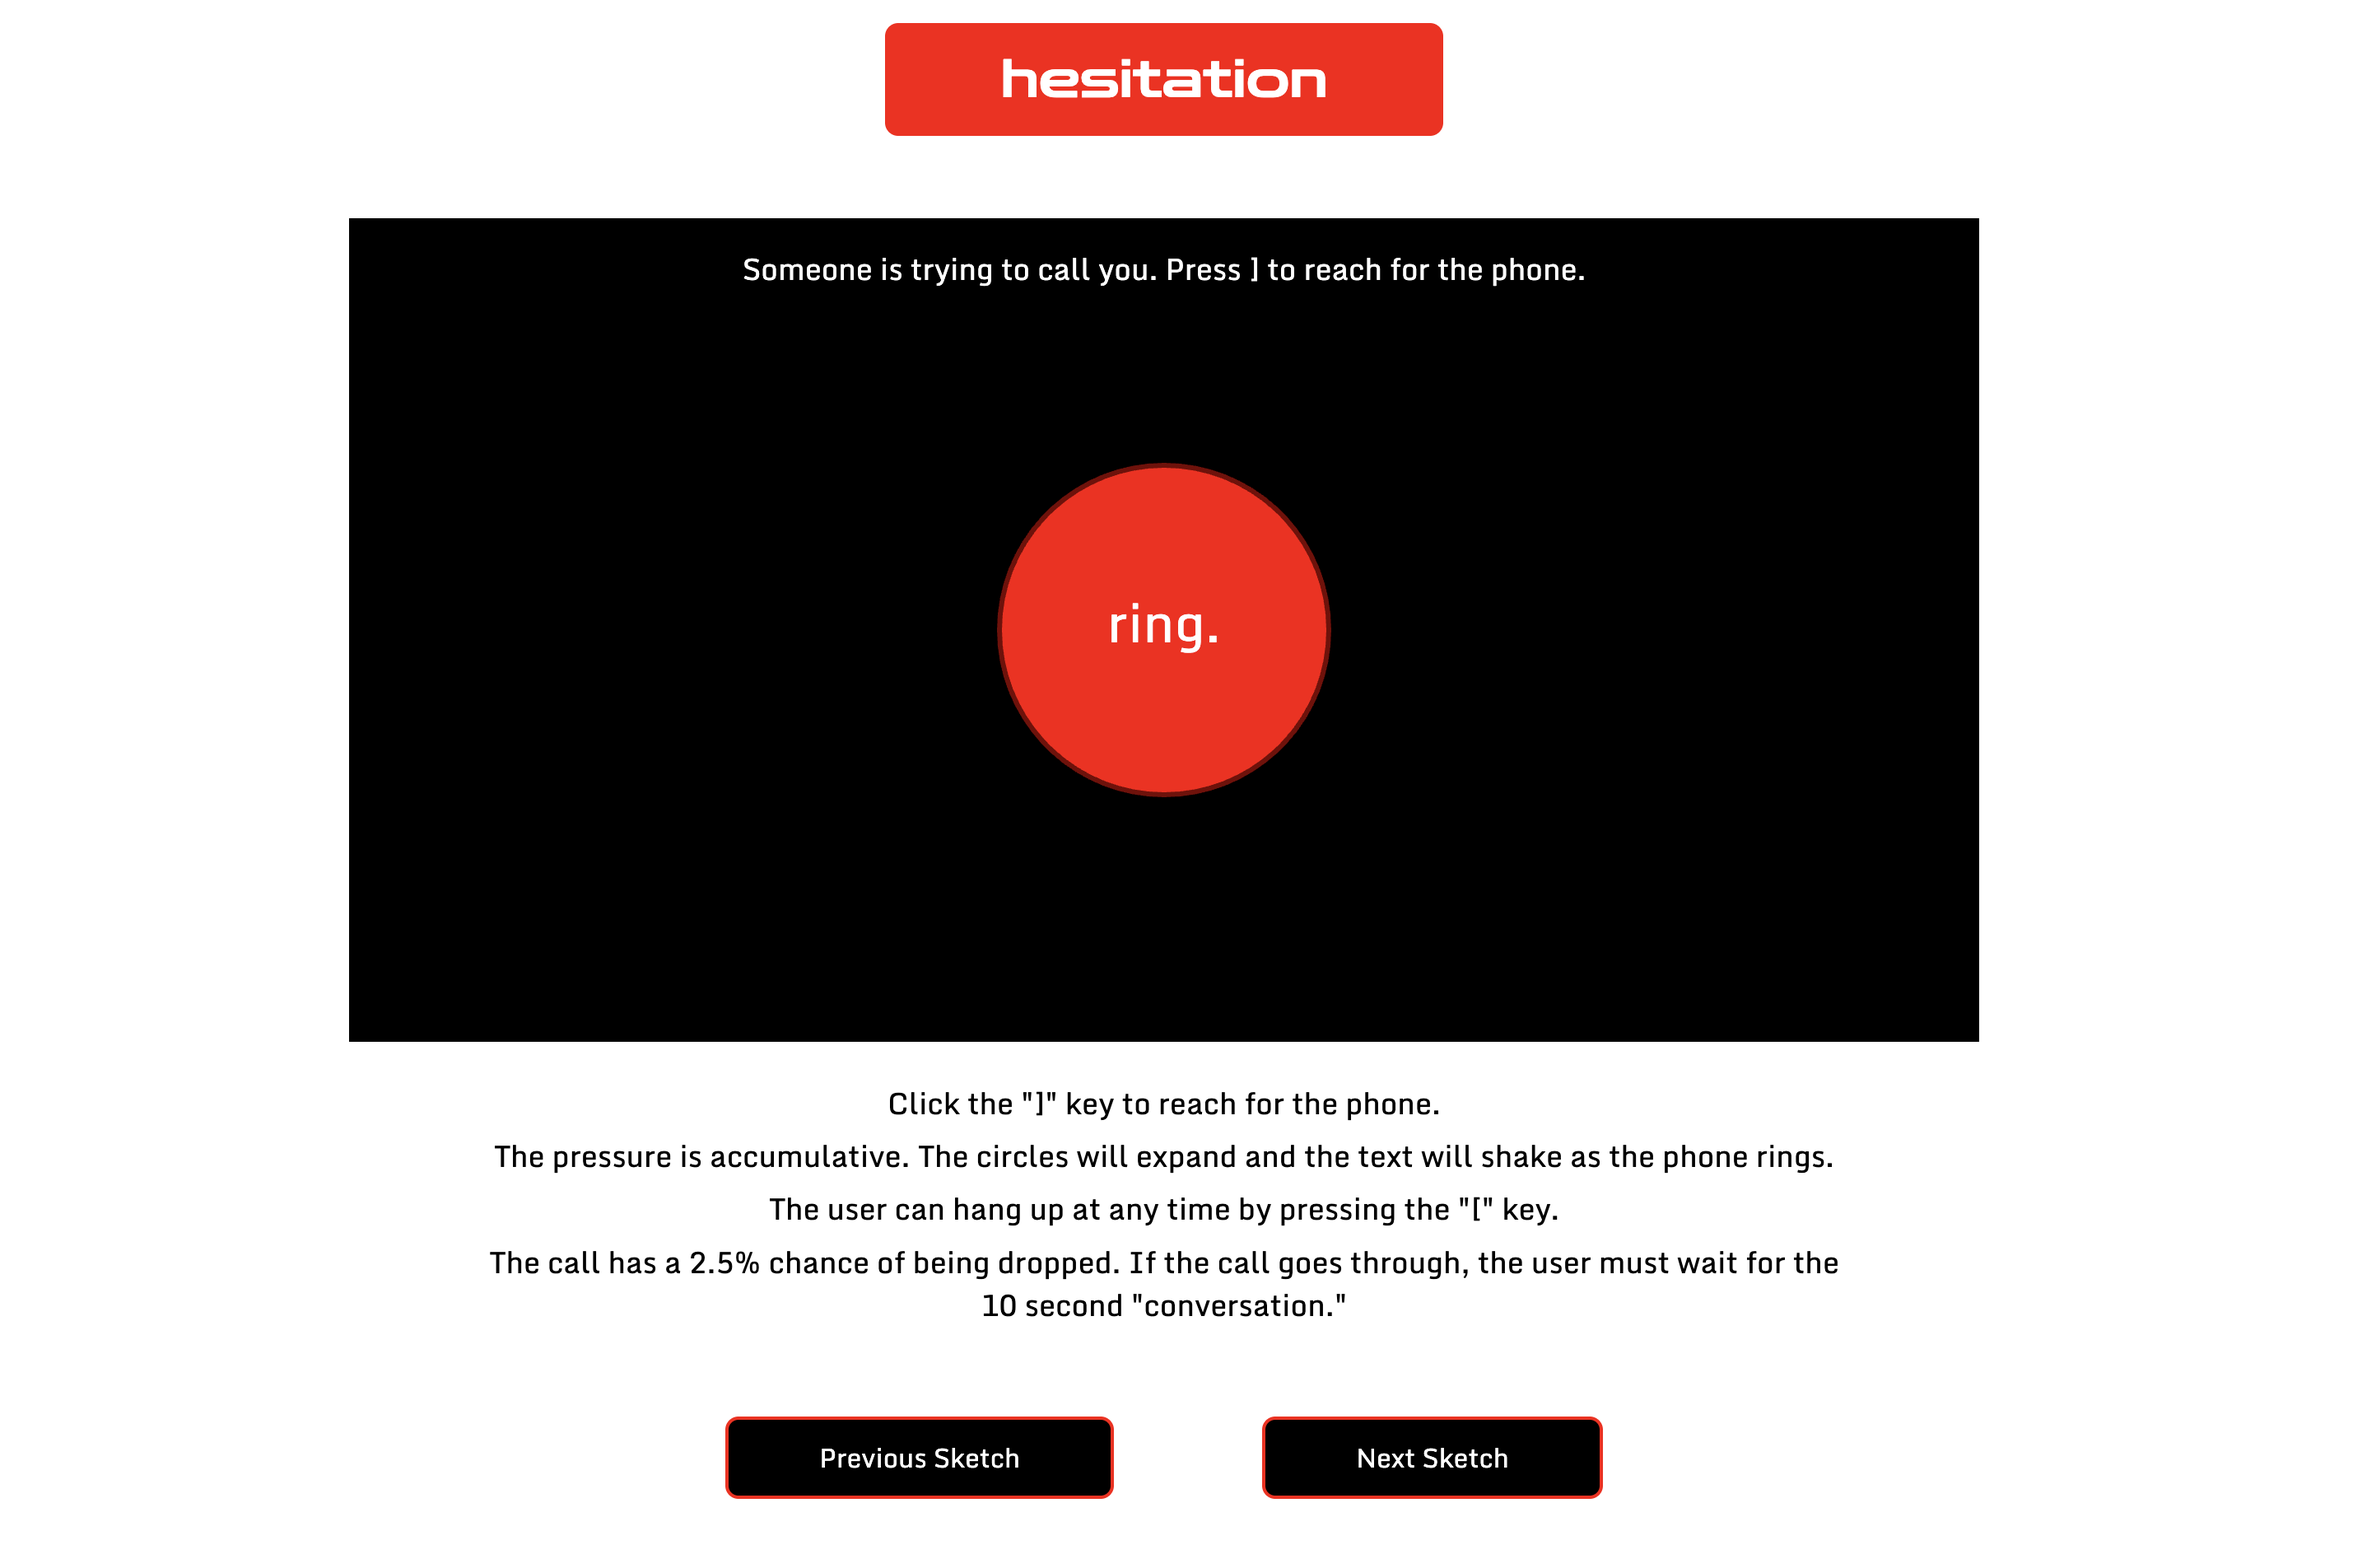
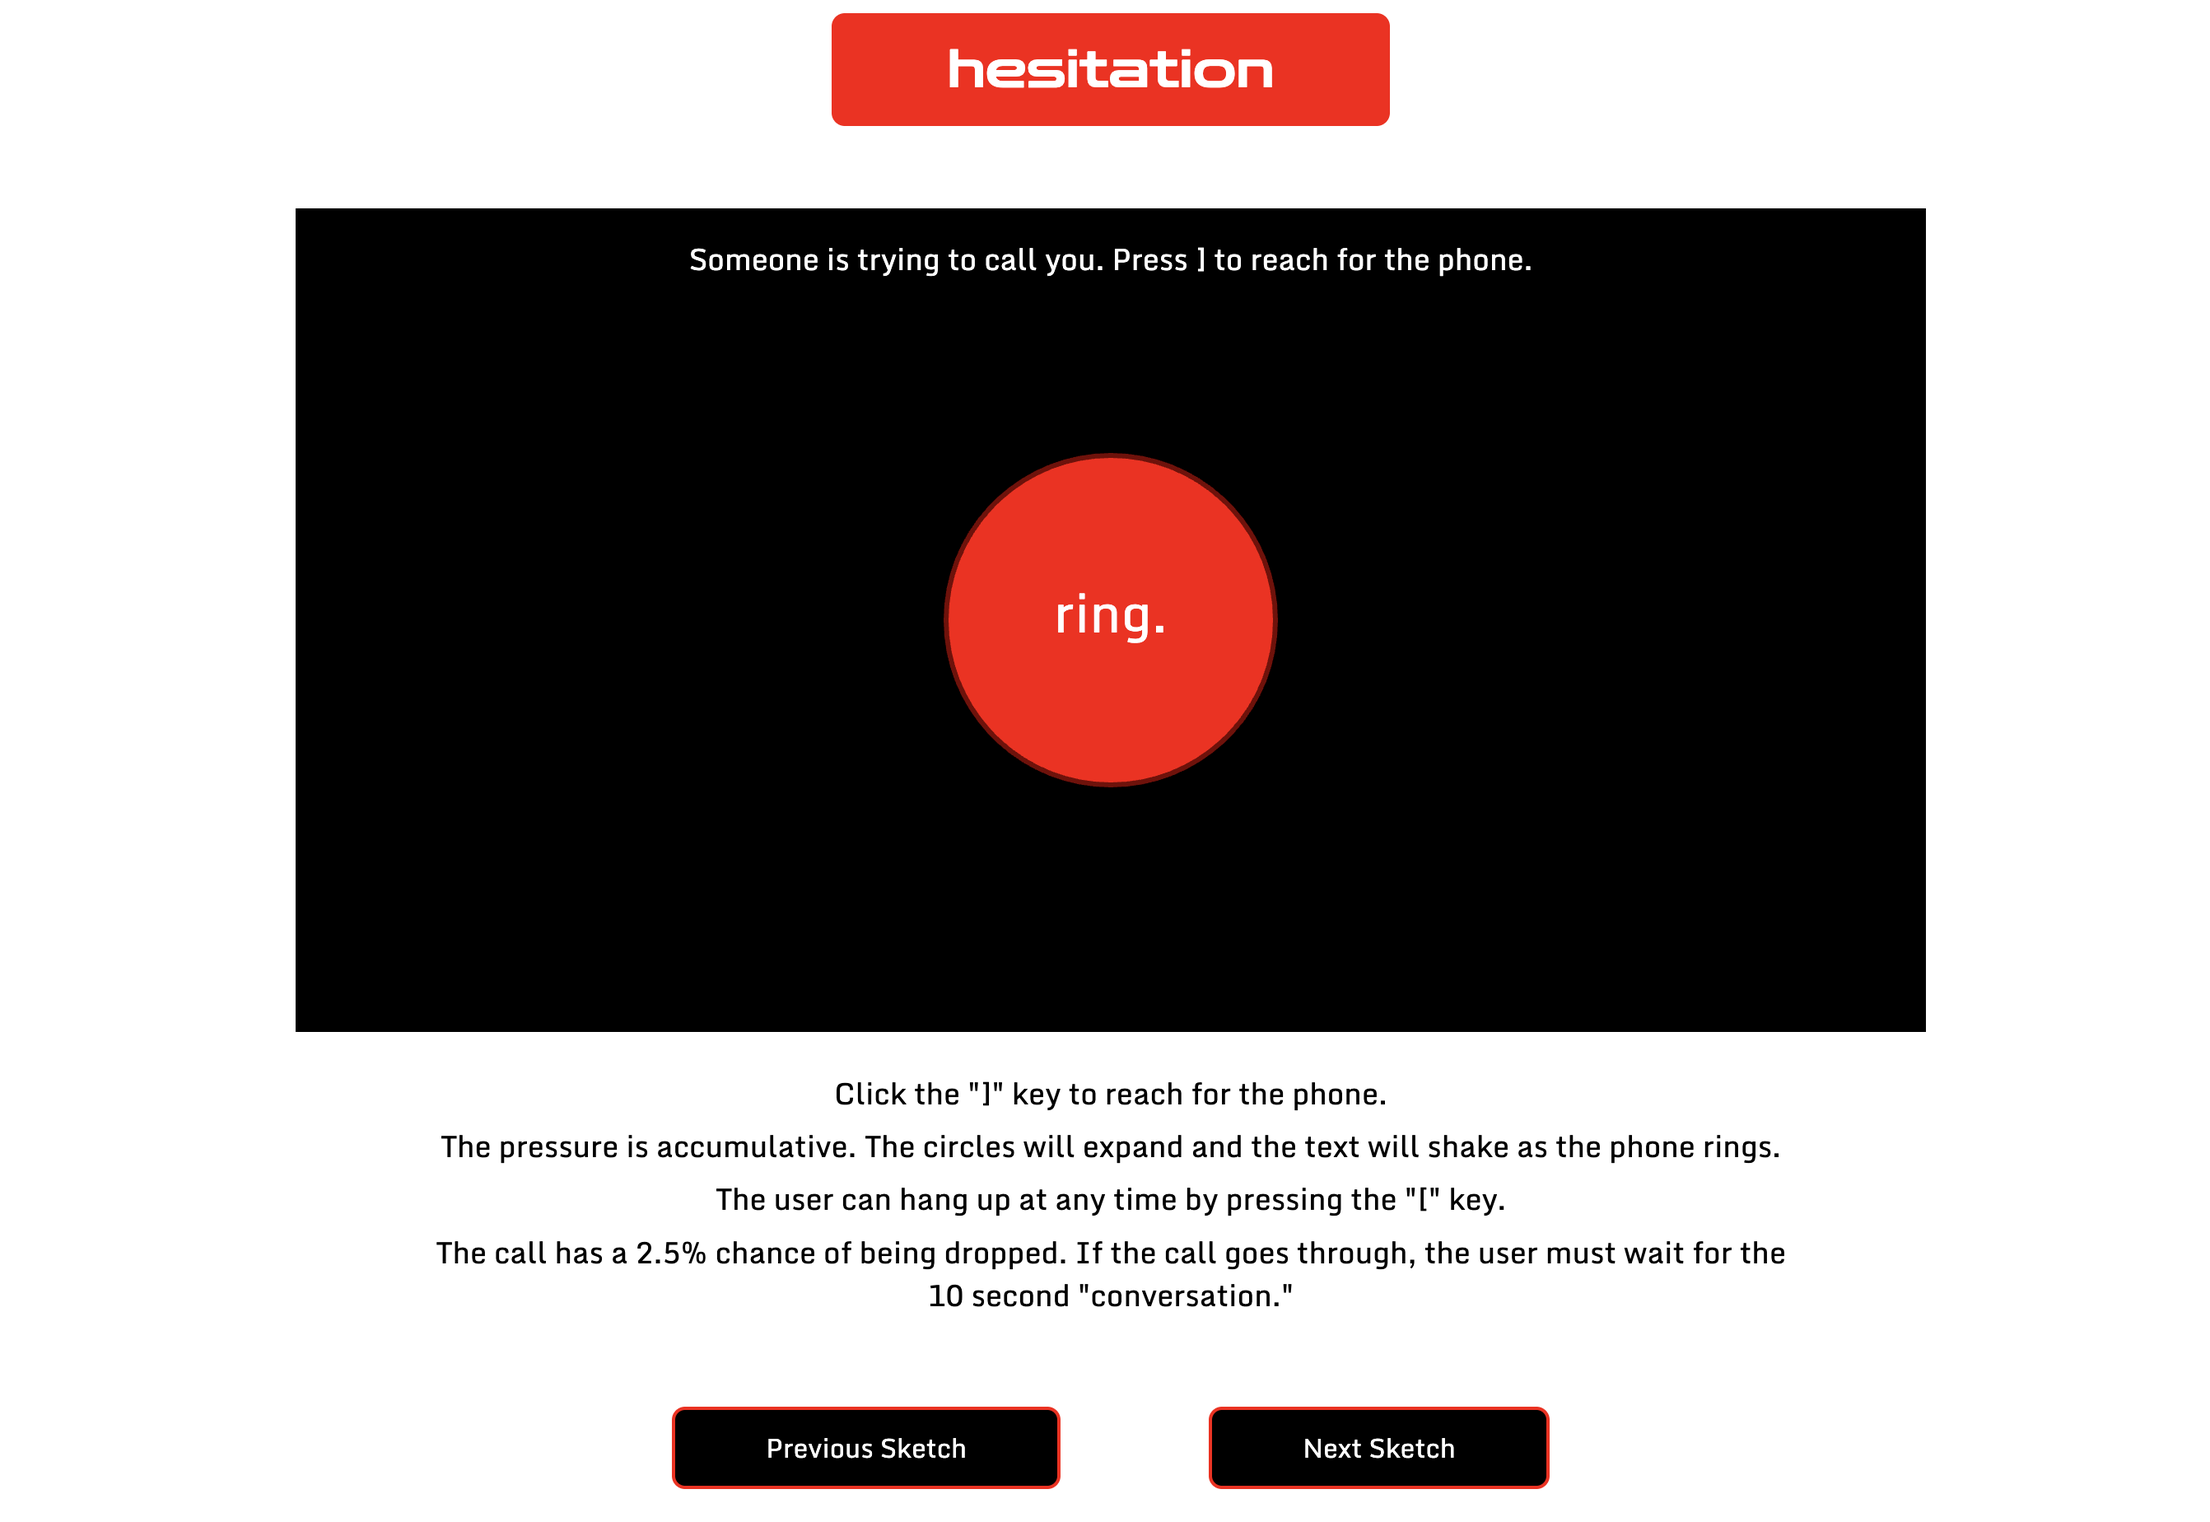
new sketch

diff --git a/index.html b/index.html
@@ -103,6 +103,7 @@
         <a href="Interface System Design/systemDesign.html">interface system design</a>
         <a href="interfaceImplementation/progressCheck.html">interface implementation 1</a>
         <a href="finalInterface/finalInterface.html">final interface</a>
+        <a href="experimentLog/experimentLog.html">experiment log</a>
     </div>
 </body>
 </html>
